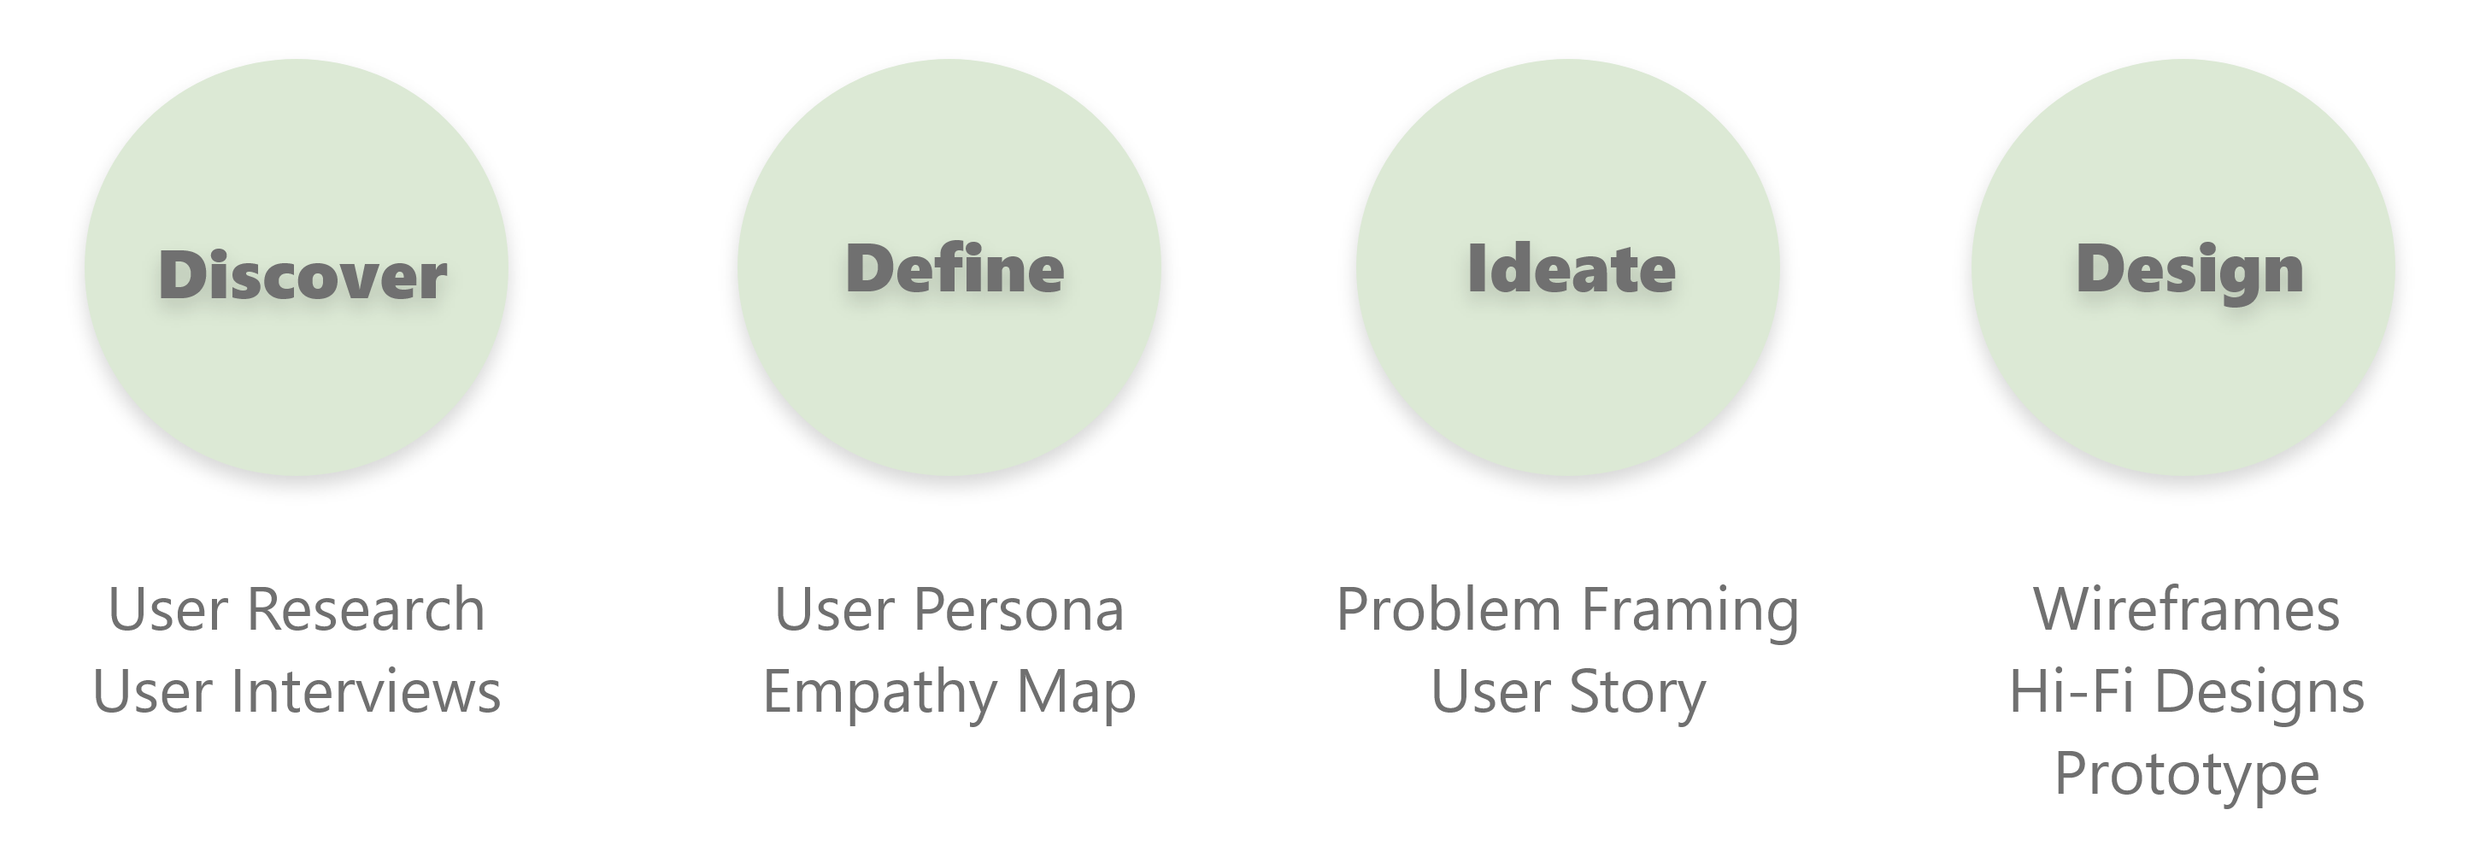
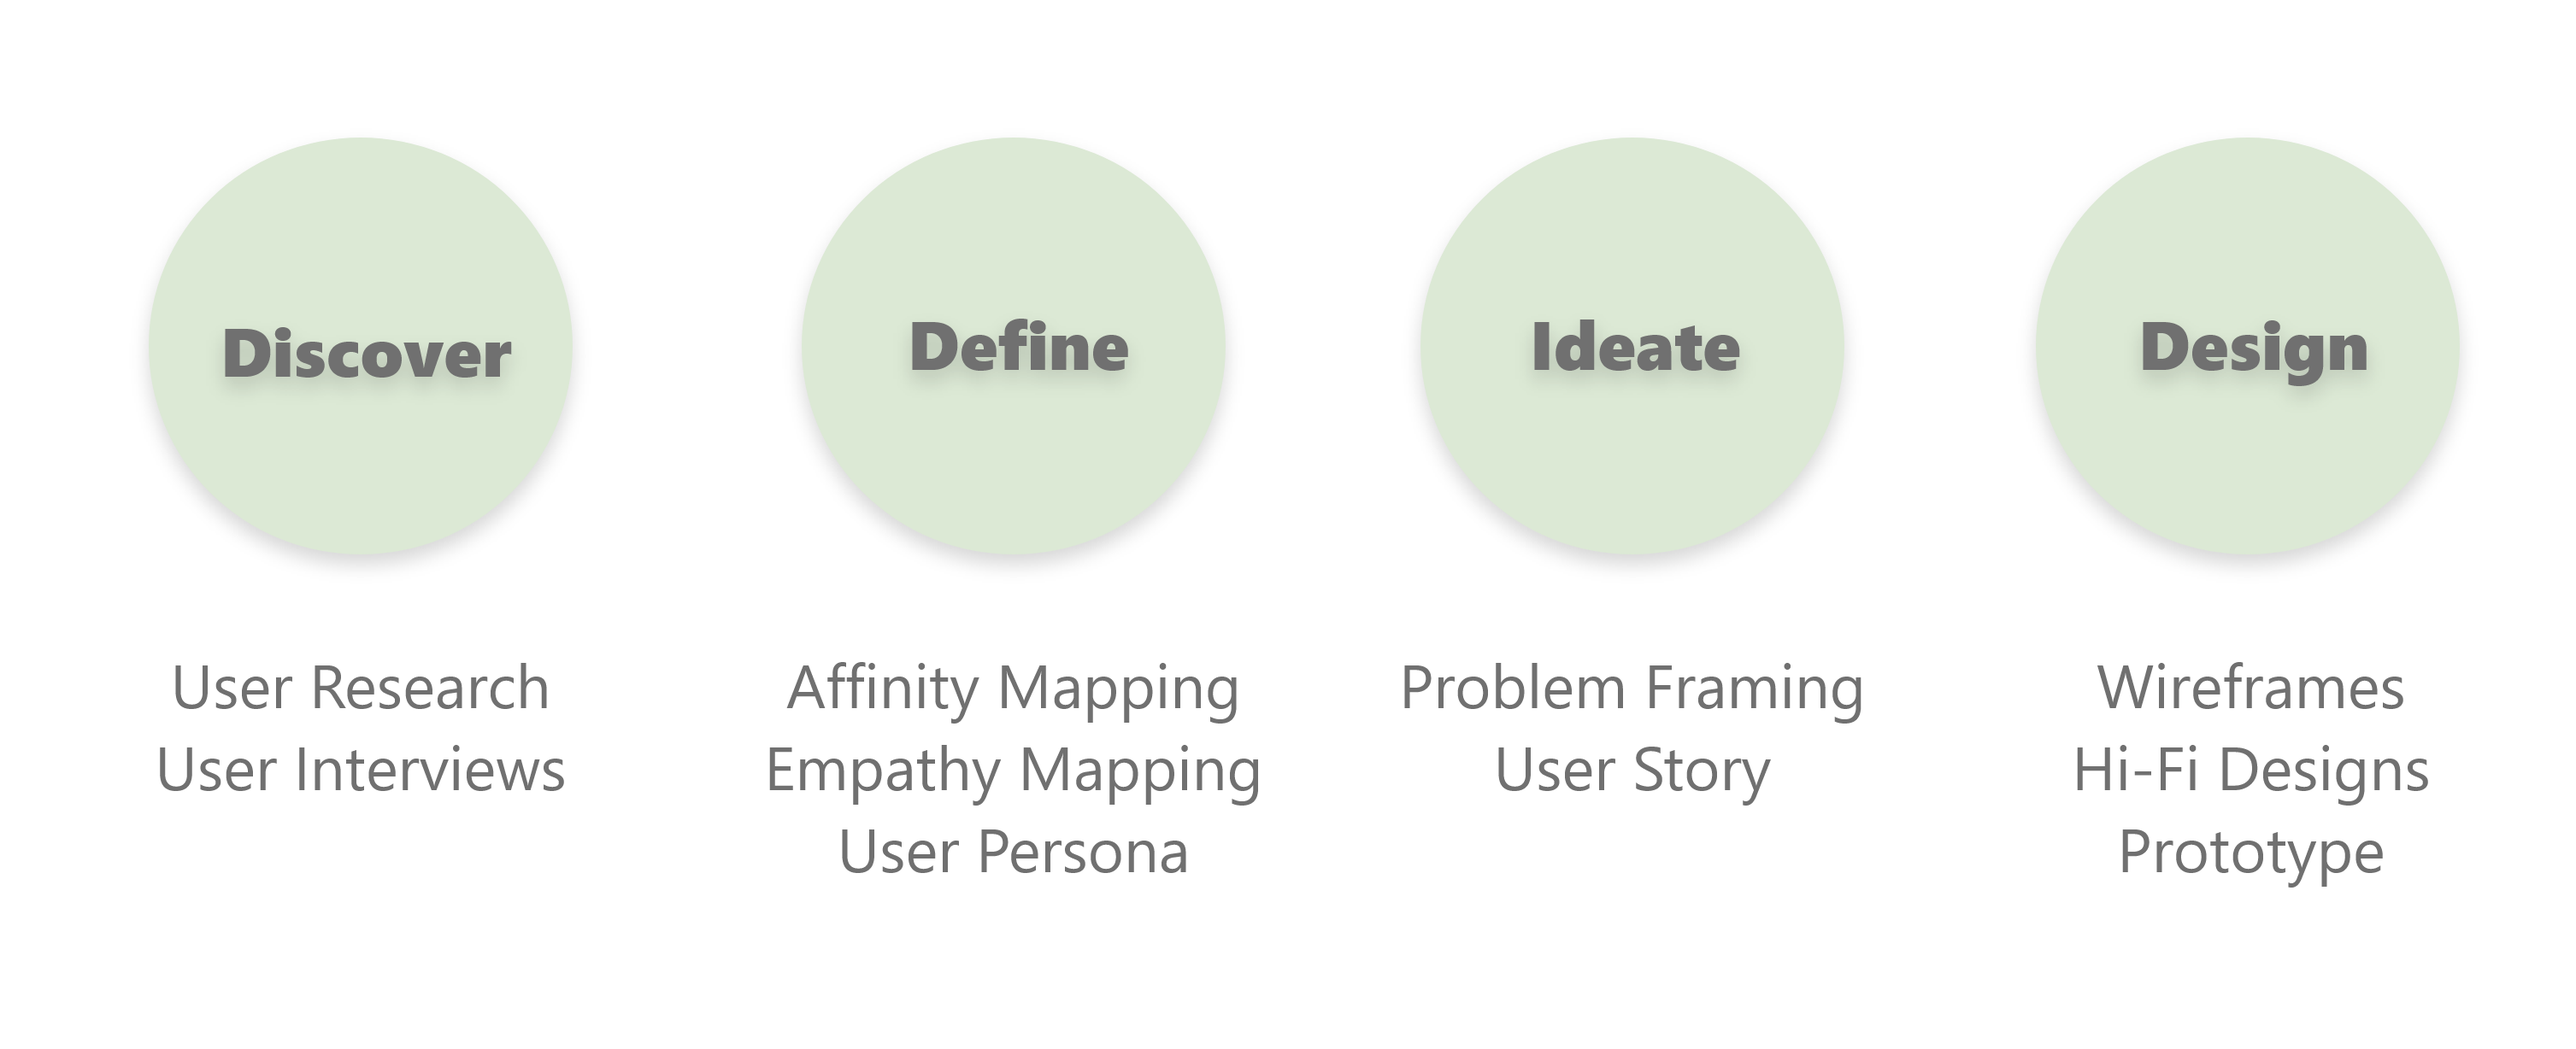
Updated plant.html case study content

diff --git a/plant.html b/plant.html
@@ -116,6 +116,10 @@
       they are not informed of what each plant needs. This is a problem because each plant may have 
       different care requirements to thrive.</p>
     <br/>
+    <p><b>Affinity Map</b><br />
+      I collaborated with my cohorts to analyze the responses from the user interviews.<br /><br />
+      <img src="images/affinity-map.png" class="img-fluid deliverable">
+      <br />
     <p><b>Empathy Map</b><br />
       I found subjects with different experiences owning plants to see if I could find any 
       differences between their routines and habits with plant care.<br /><br />
@@ -138,6 +142,9 @@
 
     <h3 class="section-title">Design Phase</h3>
     <p><b>Wireframing:</b></p><br/>
+    <img src="images/wireframe-one.jpg" class="img-fluid deliverable"> <br/> <br/>
+    <img src="images/wireframe-two.jpg" class="img-fluid deliverable"> <br/> <br/>
+    <img src="images/wireframe-three.jpg" class="img-fluid deliverable"> <br/> <br/>
     <p><b>Prototype:</b><br/>
       A prototype design was created for a user to complete a quiz by inputting information about 
       where they live, type of climate, lifestyle habits, etc. A list of plants is given to the 
